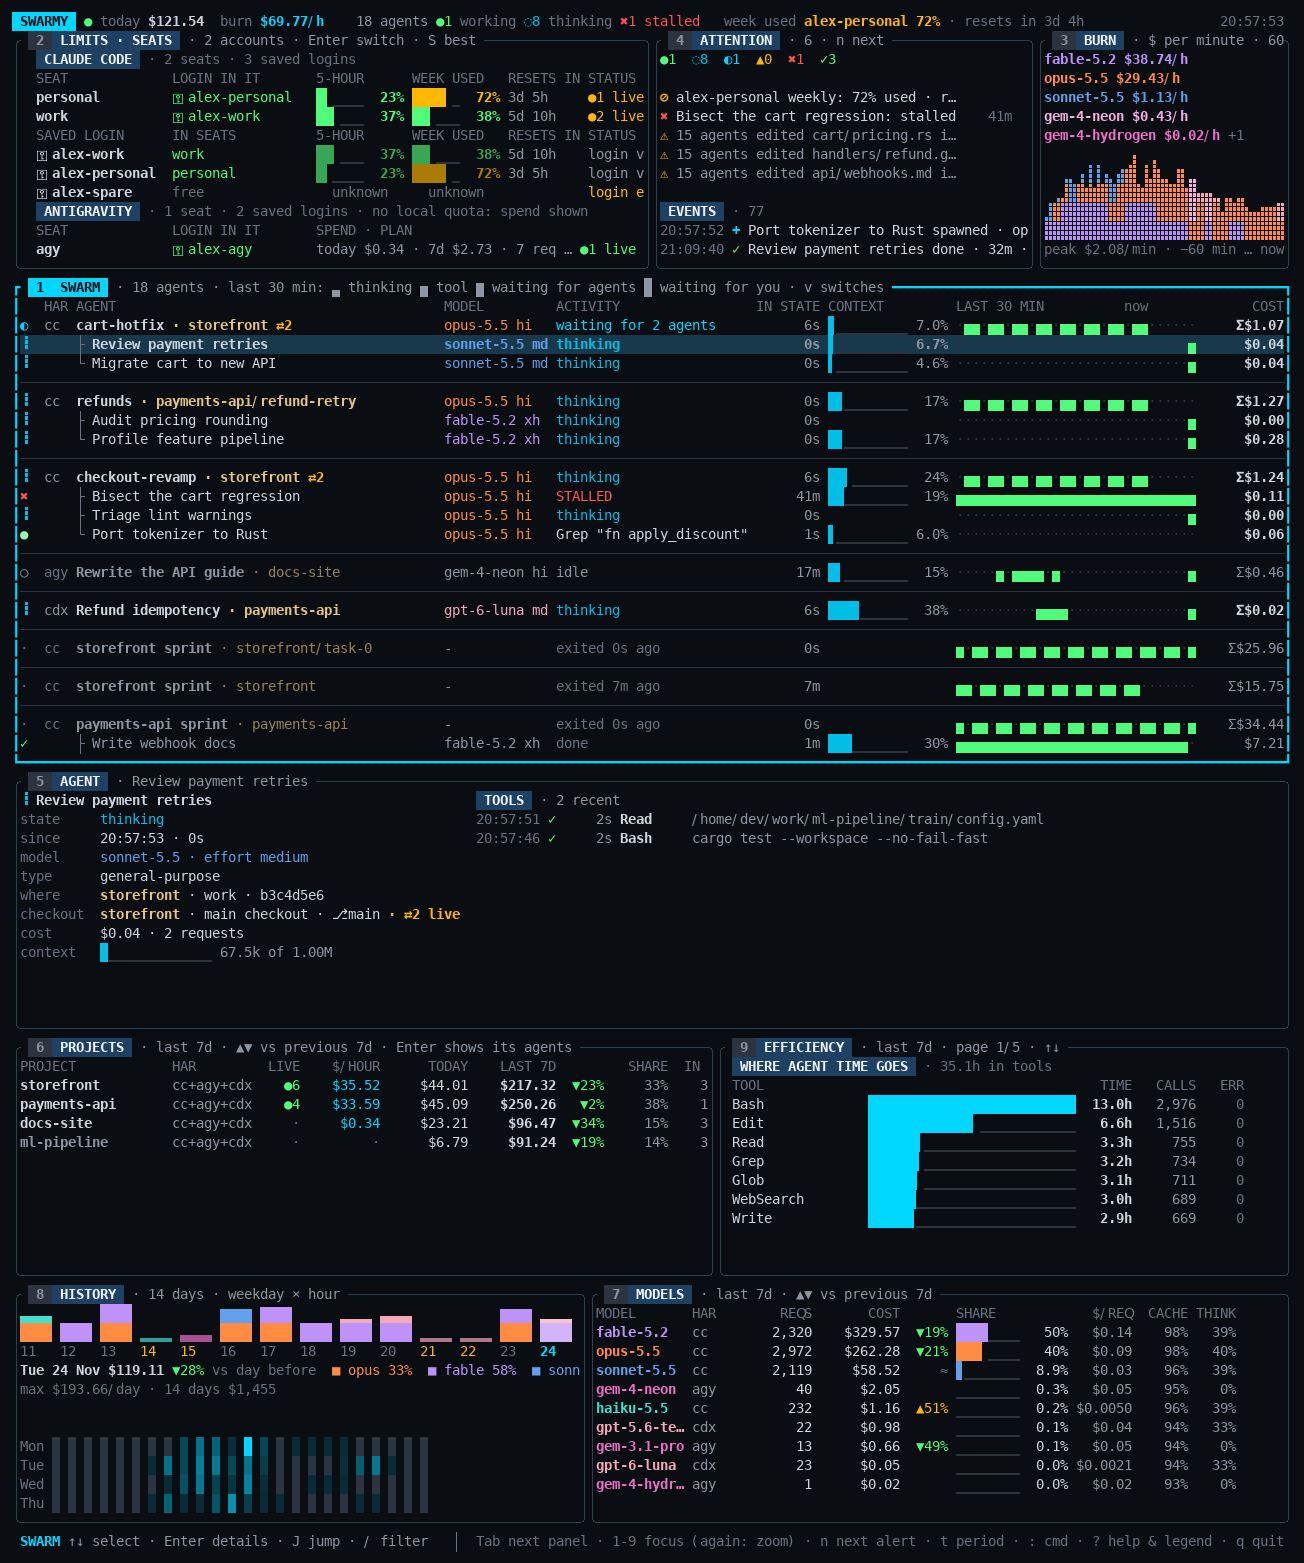
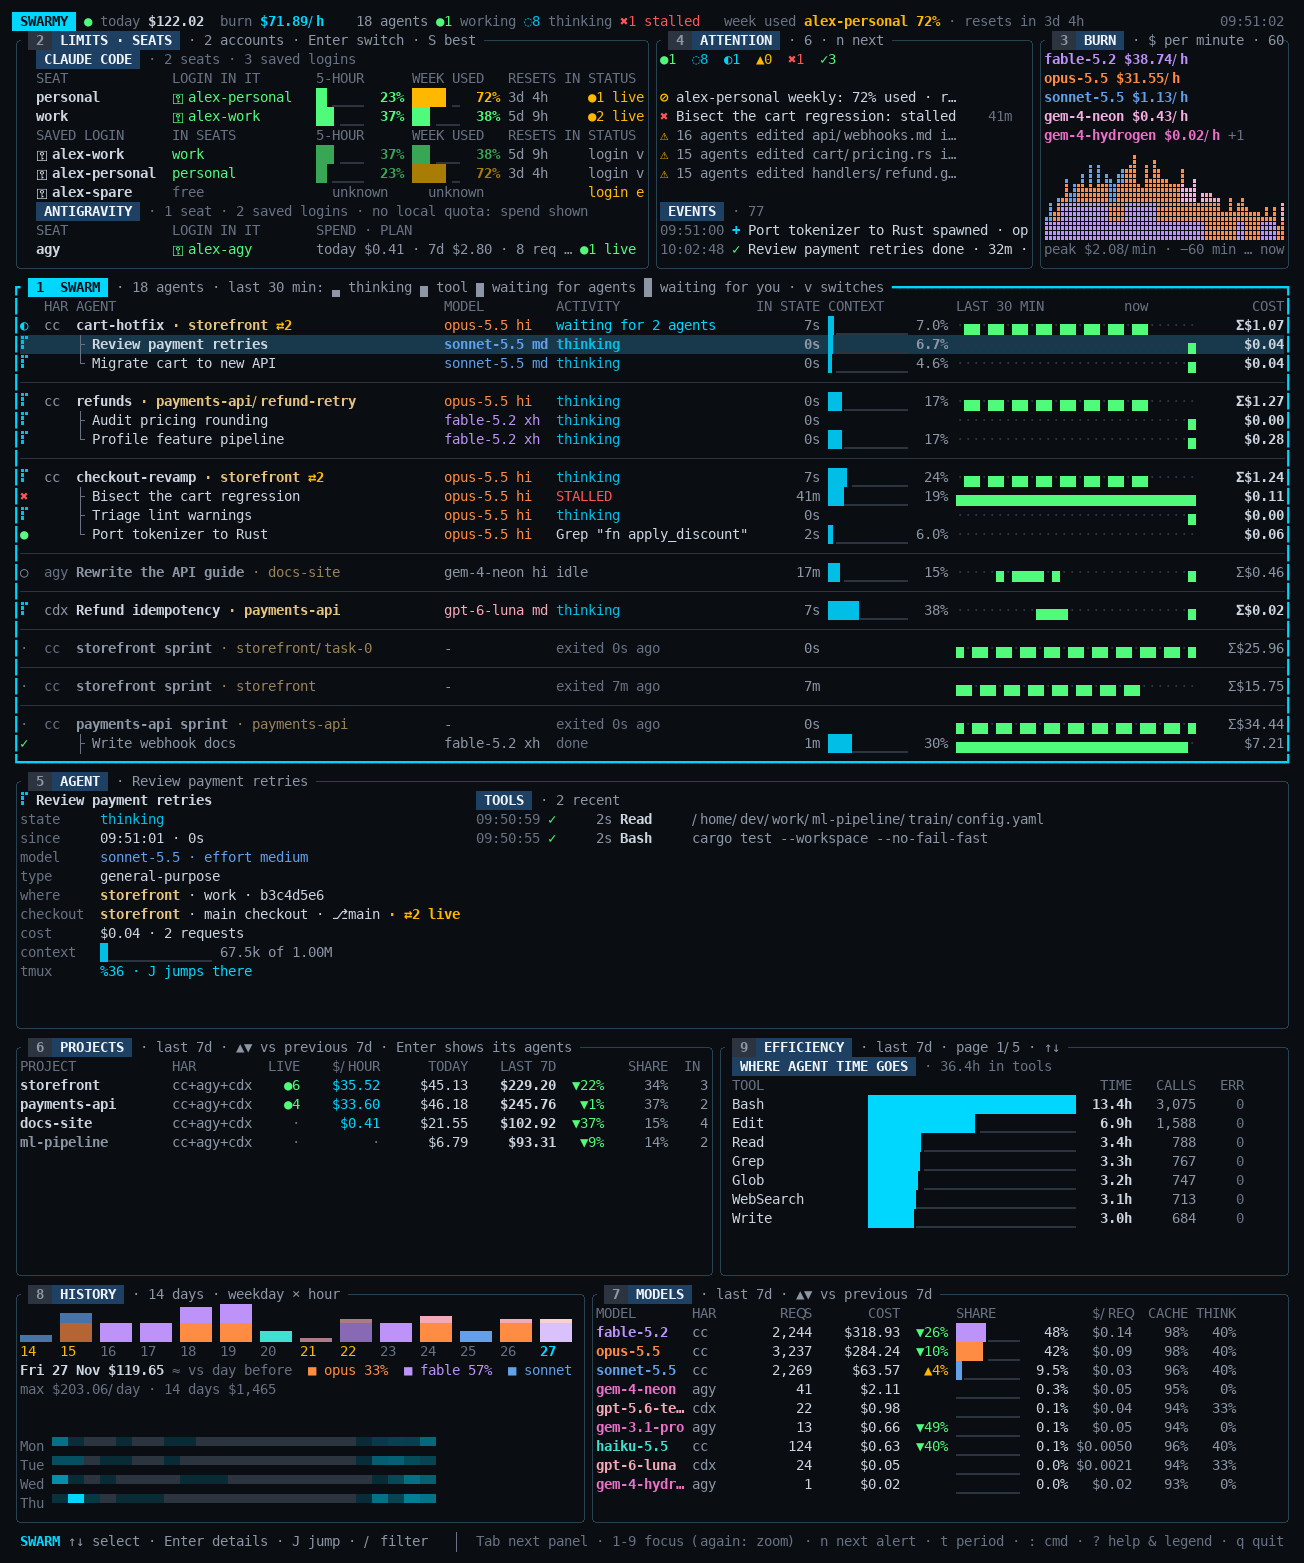
Release 0.2.8

diff --git a/README.md b/README.md
@@ -120,7 +120,7 @@ platform, with the man page and shell completions. `SHA256SUMS` covers every fil
 **Linux** (any distribution, x86_64 or ARM):
 
 ```sh
-V=0.2.7 T=x86_64-unknown-linux-musl     # other targets in the table below
+V=0.2.8 T=x86_64-unknown-linux-musl     # other targets in the table below
 curl -fLO https://github.com/koorchik/swarmy/releases/download/v$V/swarmy-$V-$T.tar.gz
 tar xzf swarmy-$V-$T.tar.gz && install -m 755 swarmy-$V-$T/swarmy ~/.local/bin/
 ```
@@ -137,8 +137,8 @@ new. The `.deb` and `.rpm` packages wrap the same binary and are installed by ha
 `armhf` `.deb` carries the ARMv6 build, which runs on every 32-bit Raspberry Pi):
 
 ```sh
-sudo apt install ./swarmy_0.2.7-1_amd64.deb       # Debian, Ubuntu, Raspberry Pi OS
-sudo dnf install ./swarmy-0.2.7-1.x86_64.rpm      # Fedora, RHEL, openSUSE
+sudo apt install ./swarmy_0.2.8-1_amd64.deb       # Debian, Ubuntu, Raspberry Pi OS
+sudo dnf install ./swarmy-0.2.8-1.x86_64.rpm      # Fedora, RHEL, openSUSE
 ```
 
 **macOS** (one universal binary for Apple silicon and Intel), with Homebrew:

diff --git a/CHANGELOG.md b/CHANGELOG.md
@@ -3,6 +3,19 @@
 All notable changes to swarmy. Versions follow [Semantic Versioning](https://semver.org/); the
 release workflow takes a release's notes from its section here.
 
+## v0.2.8
+
+BURN moves with the clock; the HISTORY heat map reads by weekday.
+
+- Fixed: BURN counted its minutes from the current second, so every second a few requests moved
+  into the next bar. The bars jittered while the chart crept one column a minute and looked
+  still. The bars are now clock minutes: the chart slides left a dot at a time as the minute
+  goes on, the current minute grows in at the right edge, and on a wide panel each minute is a
+  solid bar with a gap. The rates beside it are still the last 60 minutes to the second.
+- Changed: the weekday × hour heat map in HISTORY drew every hour as a block and a space, so the
+  hours lined up as columns and read as days. Each weekday is now one strip with a gap under
+  it, the hours ticked every three when they fit.
+
 ## v0.2.7
 
 One saved login in two seats stays put.
